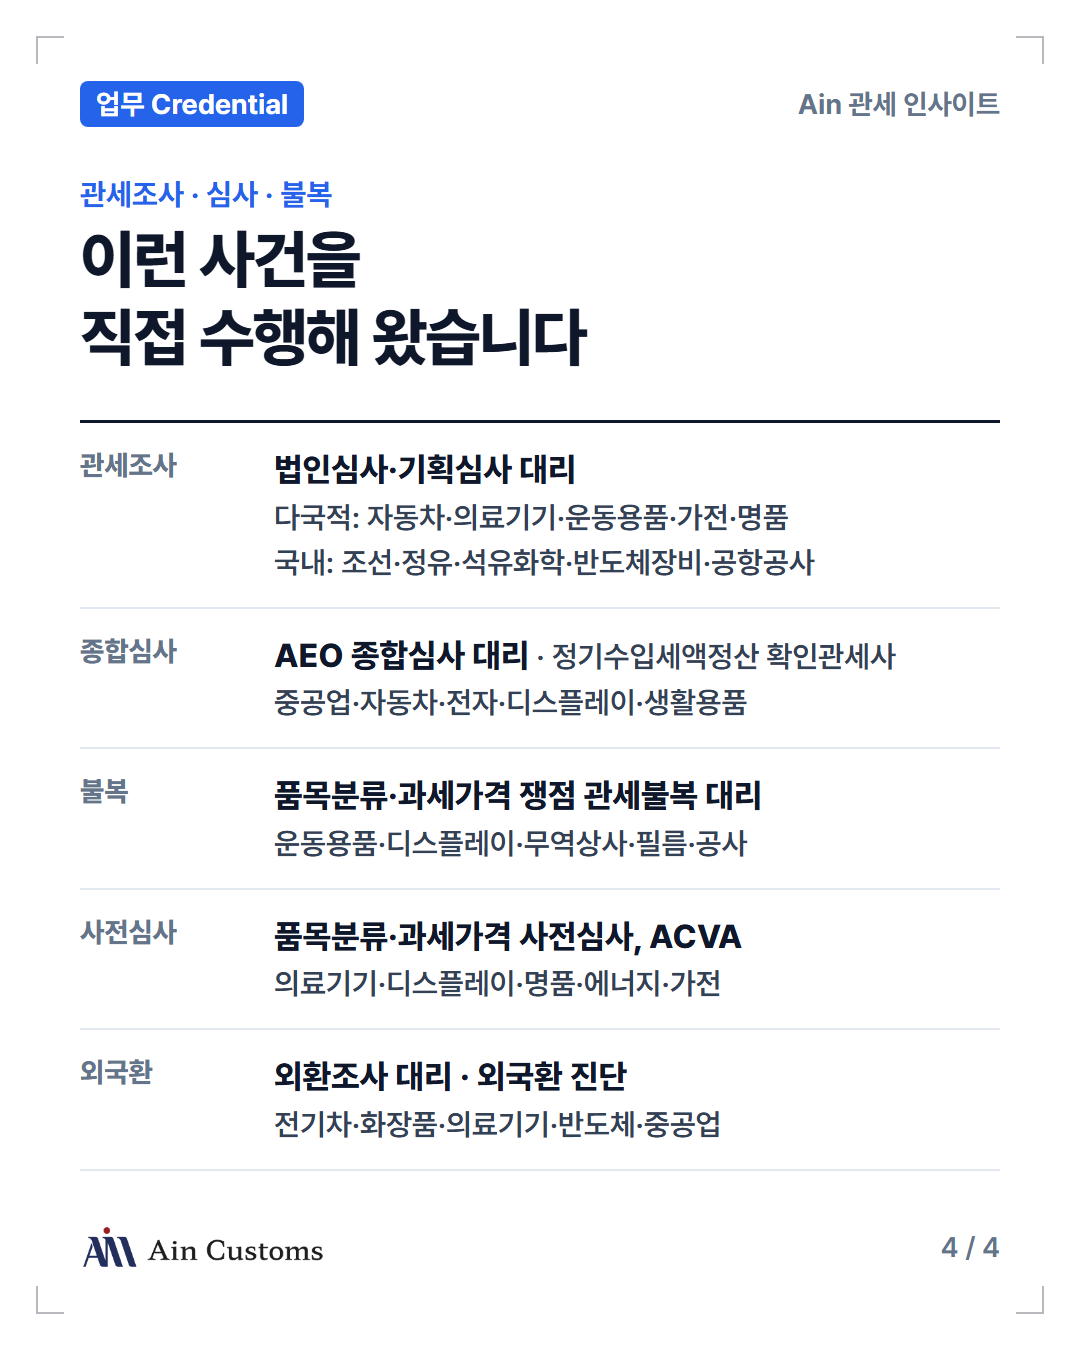
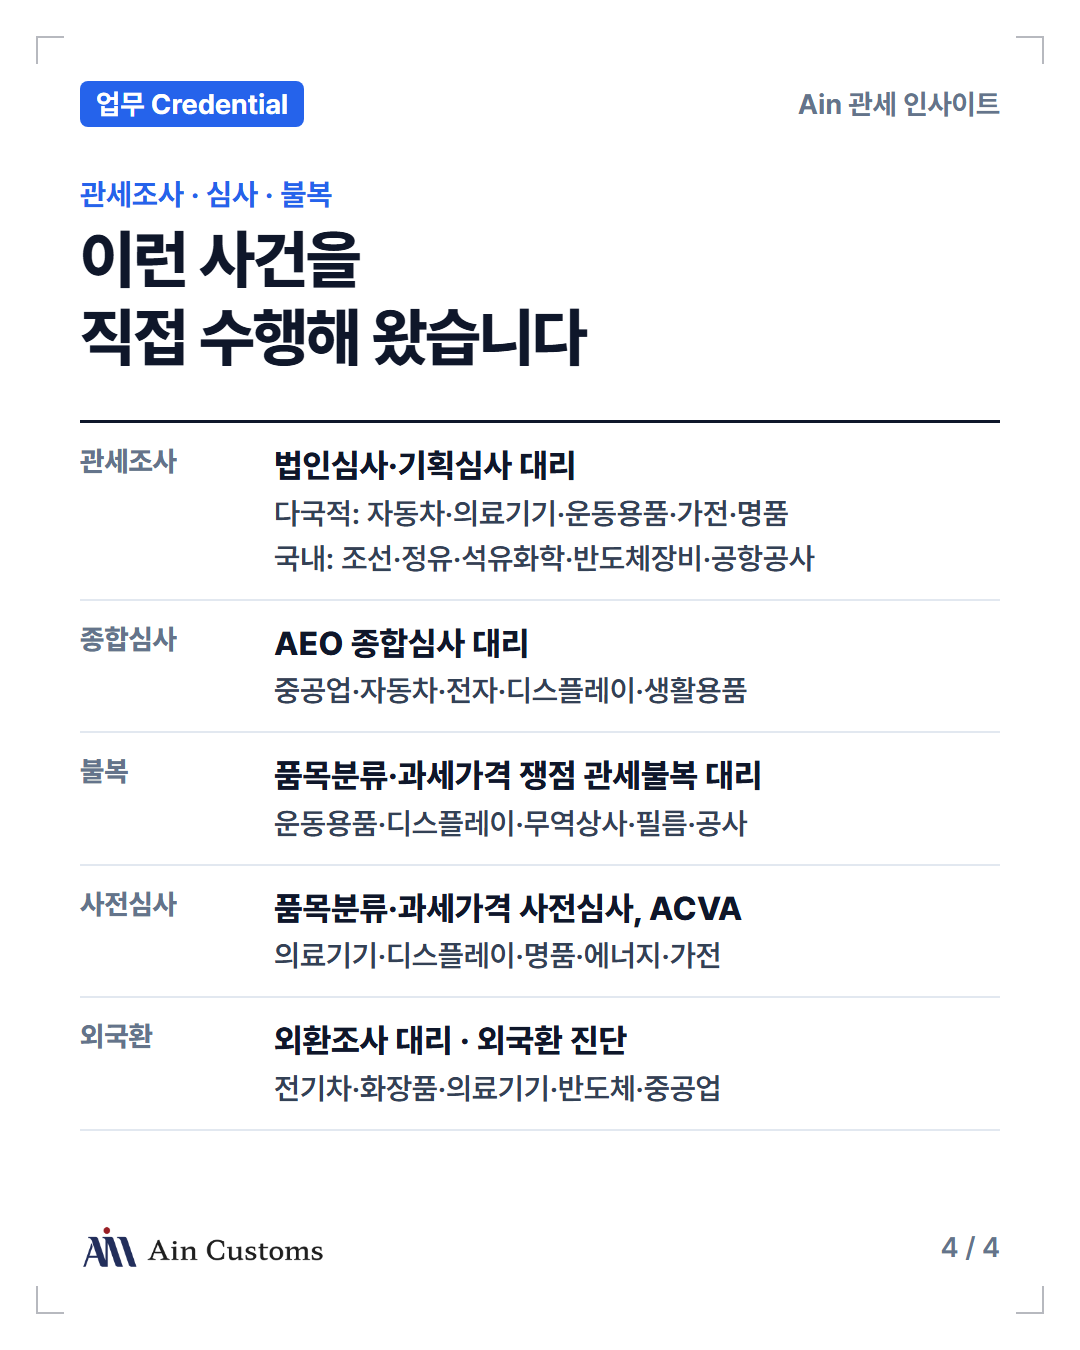
Update broker credentials on the profile cards
Add 관세청 품목분류위원회 위원 and 원산지관리사 선정위원 for 정석현,
describe the 2017-2023 Deloitte role, and drop the 확인관세사 lines.

diff --git a/content/naver-blog/blog-skin/about.html b/content/naver-blog/blog-skin/about.html
@@ -38,14 +38,14 @@ body { background: #444; padding: 40px; font-family: "Pretendard Variable", Pret
 .person { background: #fff; color: var(--navy); --rc: rgba(15,23,42,.3); }
 .person .series { color: var(--ink-3); }
 .person .foot { color: var(--ink-3); }
-.person .id { display: grid; grid-template-columns: 260px 1fr; gap: 44px; align-items: end; margin-top: 56px; }
+.person .id { display: grid; grid-template-columns: 260px 1fr; gap: 44px; align-items: end; margin-top: 40px; }
 .person .id img { width: 260px; height: 330px; object-fit: cover; object-position: 50% 12%; border-radius: 14px; display: block; }
 .person .role { font-size: 30px; font-weight: 700; color: var(--blue); }
 .person h2 { font-size: 72px; font-weight: 800; letter-spacing: -0.03em; margin-top: 8px; line-height: 1.1; }
 .person .focus { display: flex; flex-wrap: wrap; gap: 10px; margin-top: 22px; }
 .person .focus span { font-size: 26px; font-weight: 700; padding: 6px 14px; border-radius: 8px; background: var(--light); color: var(--blue); }
-.person dl { margin-top: 52px; border-top: 3px solid var(--navy); }
-.person dl > div { display: grid; grid-template-columns: 170px 1fr; gap: 24px; padding: 22px 0; border-bottom: 2px solid var(--slate-200); }
+.person dl { margin-top: 40px; border-top: 3px solid var(--navy); }
+.person dl > div { display: grid; grid-template-columns: 170px 1fr; gap: 24px; padding: 18px 0; border-bottom: 2px solid var(--slate-200); }
 .person dt { font-size: 28px; font-weight: 800; color: var(--ink-3); padding-top: 3px; }
 .person dd { font-size: 33px; font-weight: 600; line-height: 1.5; color: var(--ink-2); }
 .person dd b { color: var(--navy); font-weight: 800; }
@@ -86,9 +86,9 @@ body { background: #444; padding: 40px; font-family: "Pretendard Variable", Pret
   </div>
   <dl>
     <div><dt>현재</dt><dd><b>아인합동관세사무소 대표관세사</b></dd></div>
-    <div><dt>경력</dt><dd><b>딜로이트관세법인</b> 관세팀 Manager</dd></div>
+    <div><dt>경력</dt><dd><b>딜로이트관세법인</b> 관세팀 Manager<small>2017 ~ 2023</small><br>관세심사·조사, 외국환검사·조사 전담</dd></div>
     <div><dt>자격</dt><dd><b>관세사</b> · 원산지관리사 · 국제무역사</dd></div>
-    <div><dt>위원·자문</dt><dd><b>원산지실무사 출제위원</b><br>한국원산지정보원 FTA 컨설턴트<br>정기수입세액정산 확인관세사</dd></div>
+    <div><dt>위원·자문</dt><dd><b>관세청 품목분류위원회 위원</b><br>원산지실무사 출제위원 · 원산지관리사 선정위원<br>한국원산지정보원 FTA 컨설턴트</dd></div>
     <div><dt>주요 수행</dt><dd>법인심사·종합심사 대리, 외환조사 대리<br>품목분류 사전심사·불복, ACVA 신청 대리</dd></div>
   </dl>
   <div class="foot"><img class="logo" src="../design/logo.png" alt=""><span>2 / 4</span></div>
@@ -107,7 +107,7 @@ body { background: #444; padding: 40px; font-family: "Pretendard Variable", Pret
   </div>  <dl>
     <div><dt>현재</dt><dd><b>아인합동관세사무소 대표관세사</b></dd></div>
     <div><dt>경력</dt><dd><b>딜로이트관세법인</b> 등 관세 분야 13년</dd></div>
-    <div><dt>위원·자문</dt><dd><b>전략물자관리원 전략물자 컨설팅 전문위원</b><br>한국원산지정보원 FTA 컨설턴트<br>한국무역협회 FTA 활용지원 컨설턴트<br>정기수입세액정산 확인관세사</dd></div>
+    <div><dt>위원·자문</dt><dd><b>전략물자관리원 전략물자 컨설팅 전문위원</b><br>한국원산지정보원 FTA 컨설턴트<br>한국무역협회 FTA 활용지원 컨설턴트</dd></div>
     <div><dt>주요 수행</dt><dd>법인심사·종합심사 대리, 관세불복 대리<br>ACVA·이전가격, 과세가격 사전심사</dd></div>
   </dl>
   <div class="foot"><img class="logo" src="../design/logo.png" alt=""><span>3 / 4</span></div>
@@ -122,7 +122,7 @@ body { background: #444; padding: 40px; font-family: "Pretendard Variable", Pret
   </div>
   <dl>
     <div><dt>관세조사</dt><dd><b>법인심사·기획심사 대리</b><br>다국적: 자동차·의료기기·운동용품·가전·명품<br>국내: 조선·정유·석유화학·반도체장비·공항공사</dd></div>
-    <div><dt>종합심사</dt><dd><b>AEO 종합심사 대리</b> · 정기수입세액정산 확인관세사<br>중공업·자동차·전자·디스플레이·생활용품</dd></div>
+    <div><dt>종합심사</dt><dd><b>AEO 종합심사 대리</b><br>중공업·자동차·전자·디스플레이·생활용품</dd></div>
     <div><dt>불복</dt><dd><b>품목분류·과세가격 쟁점 관세불복 대리</b><br>운동용품·디스플레이·무역상사·필름·공사</dd></div>
     <div><dt>사전심사</dt><dd><b>품목분류·과세가격 사전심사, ACVA</b><br>의료기기·디스플레이·명품·에너지·가전</dd></div>
     <div><dt>외국환</dt><dd><b>외환조사 대리 · 외국환 진단</b><br>전기차·화장품·의료기기·반도체·중공업</dd></div>

diff --git a/content/naver-blog/blog-skin/about-post.md b/content/naver-blog/blog-skin/about-post.md
@@ -8,9 +8,9 @@ Ain 관세 인사이트에 올라오는 글은 저희 관세사들이 직접 검
 
 [이미지 about-jsh.png]
 
-정석현 대표관세사는 딜로이트관세법인 관세팀에서 Manager로 일했습니다.
-관세조사·종합심사 대리, 외환조사, 품목분류 사전심사와 불복을 주로 맡고 있습니다.
-원산지실무사 출제위원과 한국원산지정보원 FTA 컨설턴트로도 활동하고 있습니다.
+정석현 대표관세사는 2017년부터 2023년까지 딜로이트관세법인 관세팀 Manager로 근무하며 관세심사·조사와 외국환검사·조사 업무를 전문적으로 수행했습니다.
+현재는 관세조사·종합심사 대리, 외환조사, 품목분류 사전심사와 불복을 주로 맡고 있습니다.
+관세청 품목분류위원회 위원, 원산지실무사 출제위원, 원산지관리사 선정위원으로도 활동하고 있습니다.
 
 [이미지 about-cjh.png]
 
